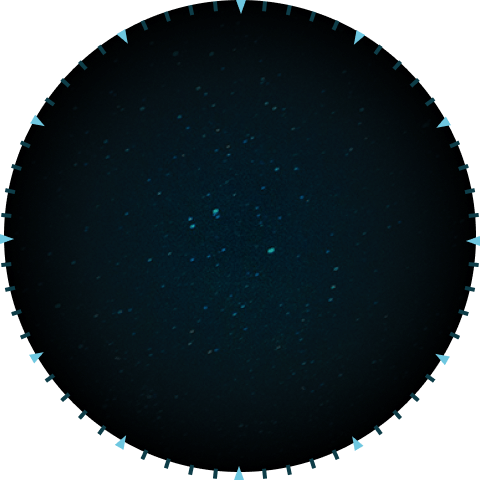
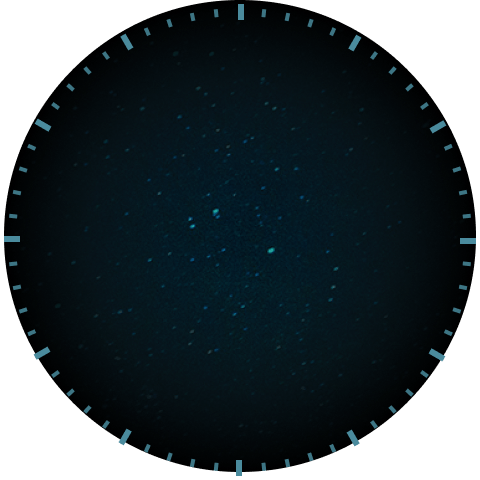
Visual tweaks (implemented letter-spacing for numbers)

diff --git a/internal/app/Number.go b/internal/app/Number.go
@@ -1,0 +1,87 @@
+package app
+
+import (
+	"strconv"
+
+	"github.com/bfanger/clock/pkg/ui"
+	"github.com/veandco/go-sdl2/sdl"
+	"github.com/veandco/go-sdl2/ttf"
+)
+
+// Number manages Text layer per character
+type Number struct {
+	number int
+	color  sdl.Color
+	font   *ttf.Font
+	image  *ui.Image
+}
+
+// NewNumber creates a new Number layer
+func NewNumber(number int, f *ttf.Font, c sdl.Color) *Number {
+	return &Number{number: number, font: f, color: c}
+}
+
+// Close free the texture memory
+func (n *Number) Close() error {
+	return n.needsUpdate()
+}
+
+// Image generate a image of the number
+func (n *Number) Image(r *sdl.Renderer) (*ui.Image, error) {
+	if n.image == nil {
+		var err error
+		characters := []*ui.Text{}
+		var offset int32
+		var letterSpacing int32 = -6
+		frame := sdl.Rect{W: letterSpacing * -1}
+
+		for _, c := range strconv.Itoa(n.number) {
+			text := ui.NewText(string(c), n.font, n.color)
+			defer text.Close()
+			image, err := text.Image(r)
+			if err != nil {
+				return nil, err
+			}
+			text.X = offset
+			offset += image.Frame.W + letterSpacing
+			frame.W += image.Frame.W + letterSpacing
+			frame.H = image.Frame.H
+			characters = append(characters, text)
+		}
+		prevTarget := r.GetRenderTarget()
+		defer r.SetRenderTarget(prevTarget)
+		n.image = &ui.Image{Frame: frame}
+		if n.image.Texture, err = r.CreateTexture(sdl.PIXELFORMAT_RGBA8888, sdl.TEXTUREACCESS_TARGET, frame.W, frame.H); err != nil {
+			return nil, err
+		}
+		if err := n.image.Texture.SetBlendMode(sdl.BLENDMODE_BLEND); err != nil {
+			return nil, err
+		}
+		if err := r.SetRenderTarget(n.image.Texture); err != nil {
+			return nil, err
+		}
+		for _, glyp := range characters {
+			glyp.Compose(r)
+		}
+	}
+	return n.image, nil
+}
+
+// SetColor of the number
+func (n *Number) SetColor(c sdl.Color) error {
+	if c == n.color {
+		return nil
+	}
+	n.color = c
+	return n.needsUpdate()
+}
+
+func (n *Number) needsUpdate() error {
+	if n.image != nil {
+		if err := n.image.Close(); err != nil {
+			return err
+		}
+		n.image = nil
+	}
+	return nil
+}

diff --git a/internal/app/AnalogClock.go b/internal/app/AnalogClock.go
@@ -4,7 +4,6 @@ import (
 	"fmt"
 	"io"
 	"math"
-	"strconv"
 	"time"
 
 	"github.com/bfanger/clock/pkg/ui"
@@ -23,7 +22,7 @@ type AnalogClock struct {
 	timer *Timer
 	font  *ttf.Font
 	hours [12]struct {
-		text   *ui.Text
+		text   *Number
 		sprite *ui.Sprite
 	}
 	hourHand struct {
@@ -38,11 +37,11 @@ type AnalogClock struct {
 	done chan bool
 }
 
-const radius = 184.0
-const fontSize = 70
+const radius = 180.0
+const fontSize = 62
 
 var color = sdl.Color{R: 103, G: 103, B: 109, A: 255}
-var activeColor = sdl.Color{R: 203, G: 222, B: 198, A: 255}
+var activeColor = sdl.Color{R: 176, G: 192, B: 197, A: 255}
 
 // NewAnalogClock creats a new time widget
 func NewAnalogClock(engine *ui.Engine) (*AnalogClock, error) {
@@ -75,11 +74,11 @@ func NewAnalogClock(engine *ui.Engine) (*AnalogClock, error) {
 	// c.font.SetStyle()
 
 	for i := 0; i < 12; i++ {
-		text := strconv.Itoa(i)
-		if text == "0" {
-			text = "12"
+		number := i
+		if number == 0 {
+			number = 12
 		}
-		c.hours[i].text = ui.NewText(text, c.font, color)
+		c.hours[i].text = NewNumber(number, c.font, color)
 		hour := ui.NewSprite(c.hours[i].text)
 		hour.AnchorX = 0.5
 		hour.AnchorY = 0.5
